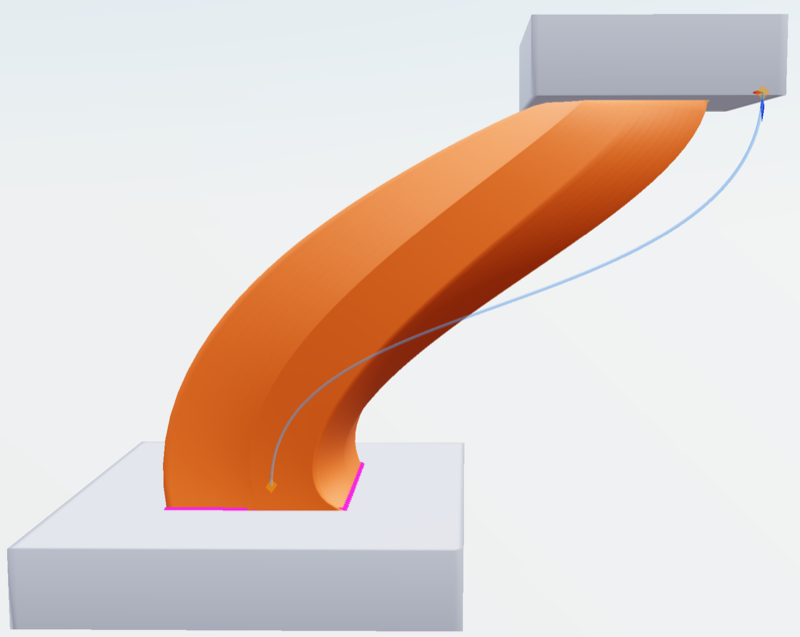
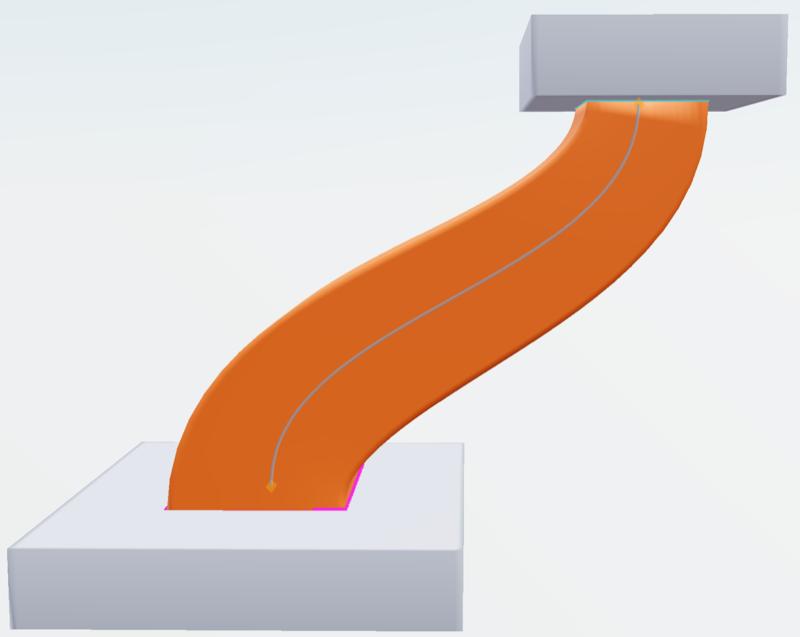
docs(wiki): the Loft spine screenshot on 0.17.390 showed the spine leaving the body; use a finished result

Changed region(s): [[0.1875, 0.1491, 0.9062, 0.8053], [0.9375, 0.1193, 0.9688, 0.2386], [0.9062, 0.2386, 0.9375, 0.2983]]

diff --git a/docs/wiki/Changelog-0.17.390.md b/docs/wiki/Changelog-0.17.390.md
@@ -35,7 +35,7 @@ Wiki: [Loft Between Shapes](Workflow-Loft-Between-Shapes)
 ### Spine
 
 - A Wire can be a Loft's **spine**. The sections sit along it where it passes closest to their centers, and the walls between them follow its bends. Pick the Wire in the Loft card's **Spine** row.
-  ![A Loft between two boxes following a curved Wire spine, with the Wire drawn through its pins](images/changelog/0.17.390/loft-spine.png)
+  ![A Loft between two boxes following a curved Wire spine, which runs through the body from one section to the other](images/changelog/0.17.390/loft-spine.png)
 - The spine's pins set its twist. Each pin's **North** fixes which way the outline faces at that pin, and between pins the outline turns evenly from one North to the next, so editing the Wire never flips the body or its ends. Turn a pin about its up to twist the Loft there; the card's **Twist** adds to that. **Upright**, in the Spine row, keeps the outline facing the way it does at the start instead.
 - **Add a guiderail wire**, in a Loft body's right-click menu and its row's menu in Objects, draws the spine for you: a Wire through a new pin at the center of each section, aimed the way the Loft leaves it and facing the way the section does, so the Loft keeps its pairing. Each pin becomes its section's take-off Pin.
 - **Link with Wire**, under the card's Spine picker while a Loft has no spine, draws a Wire through each section's take-off Pin, or the pin on its face (a Split cap's), adding a pin where a section has none, and makes it the spine.
